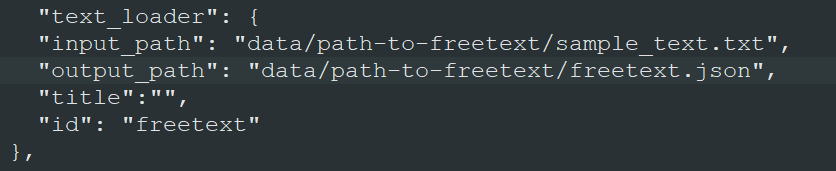
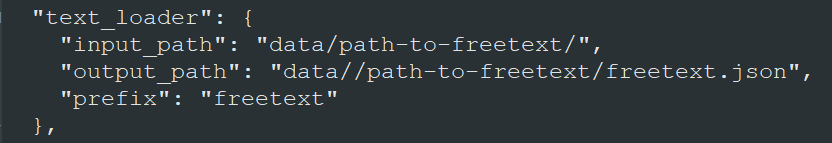
text_loader fix

Changed region(s): [[0.0312, 0.0559, 0.9688, 0.6154], [0.0312, 0.6154, 0.4062, 0.7832], [0.0, 0.8392, 0.0625, 0.951]]

diff --git a/README.md b/README.md
@@ -28,7 +28,7 @@ cd EasyNER
 conda env create -f environment.yml
 ```
 
-4. Install spacy
+4. Load spacy
 
 ```console
 
